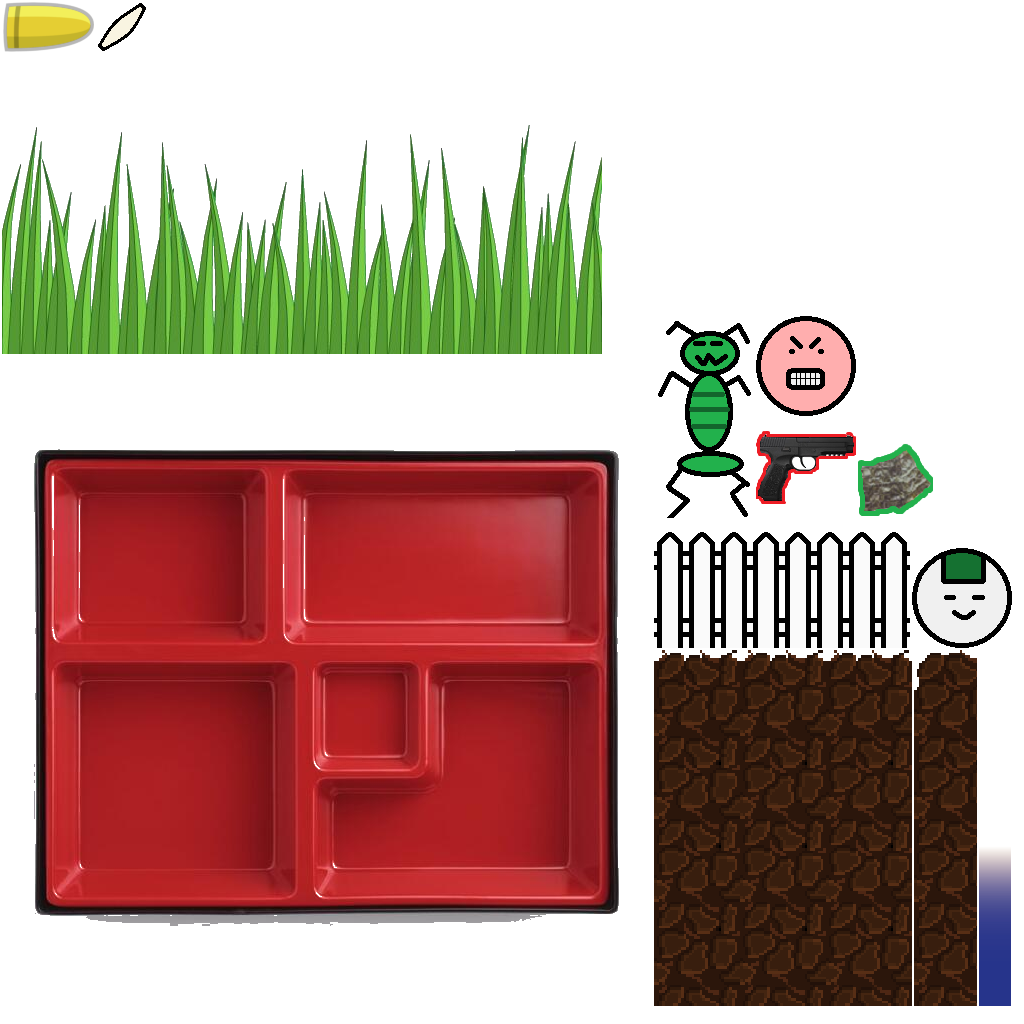
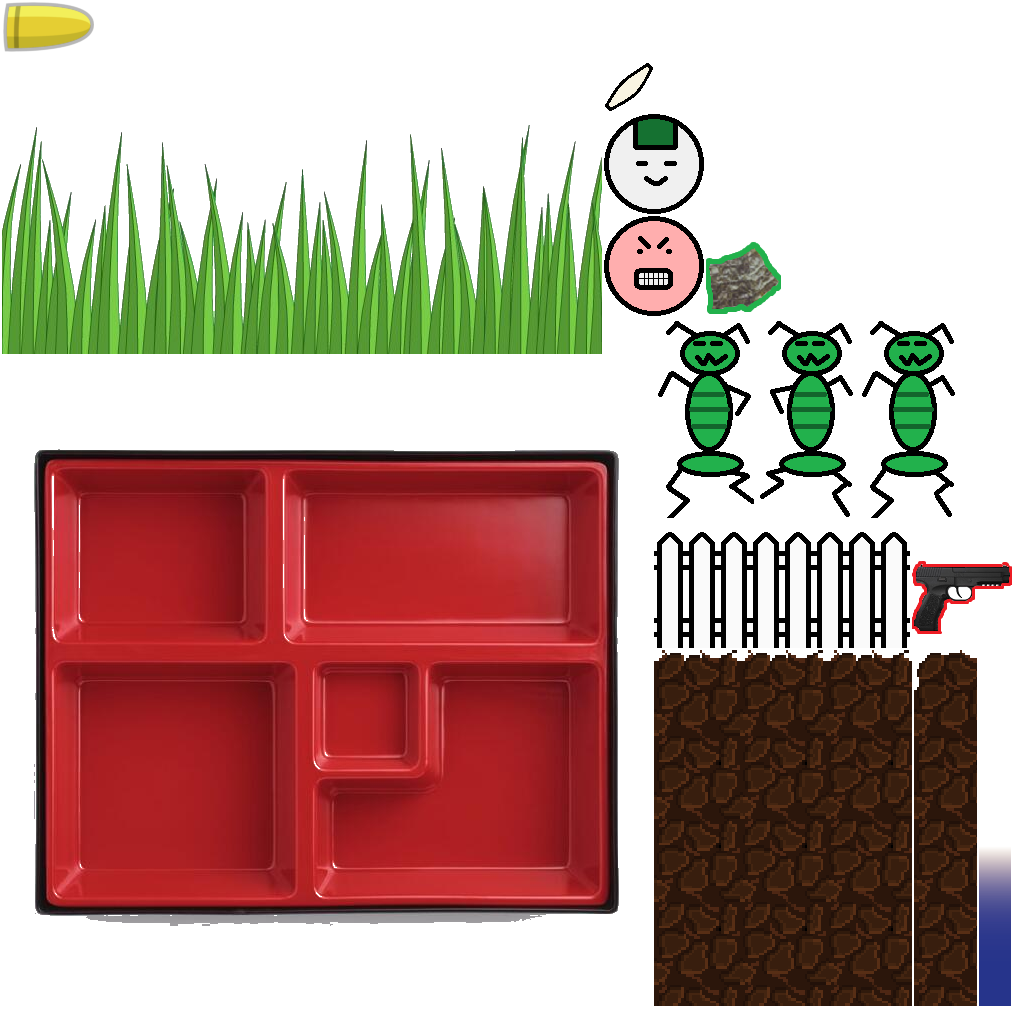
Added Simple bug animation

Changed region(s): [[0.5938, 0.0625, 0.9375, 0.5312], [0.875, 0.5312, 1.0, 0.6562], [0.0938, 0.0, 0.1562, 0.0625]]

diff --git a/core/src/com/packetpub/libgdx/rutter/game/objects/AbstractGameObject.java b/core/src/com/packetpub/libgdx/rutter/game/objects/AbstractGameObject.java
@@ -1,6 +1,8 @@
 package com.packetpub.libgdx.rutter.game.objects;
 
+import com.badlogic.gdx.graphics.g2d.Animation;
 import com.badlogic.gdx.graphics.g2d.SpriteBatch;
+import com.badlogic.gdx.graphics.g2d.TextureRegion;
 import com.badlogic.gdx.math.MathUtils;
 import com.badlogic.gdx.math.Vector2;
 import com.badlogic.gdx.physics.box2d.Body;
@@ -17,7 +19,7 @@ public abstract class AbstractGameObject
 	public Vector2 origin;
 	public Vector2 scale;
 	public float rotation;
-	
+		
 	private final float FLOAT_CYCLE_TIME = .5f;
 	private final float FLOAT_AMPLITUDE = 0.5f;
 	
@@ -26,6 +28,9 @@ public abstract class AbstractGameObject
 	private Vector2 floatTargetPosition;
 	
 	public Body body;
+	
+	public float stateTime;
+	public Animation<TextureRegion> animation;
 	
 	/**
 	 * Builds the game object
@@ -44,13 +49,27 @@ public abstract class AbstractGameObject
 	}
 	
 	/**
+	 * Sets the current animation from the animation object
+	 * @param animation animation object
+	 */
+	public void setAnimation(Animation animation)
+	{
+		this.animation = animation;
+		stateTime = 0;
+	}
+	
+	/**
 	 * Updates the object based on the time since last frame
 	 * @param deltaTime		Time since last frame
 	 */
 	public void update (float deltaTime)
 	{
-		position.set(body.getPosition());
-		rotation = body.getAngle() * MathUtils.radiansToDegrees;
+		stateTime += deltaTime;
+		if (body != null)
+		{
+			position.set(body.getPosition());
+			rotation = body.getAngle() * MathUtils.radiansToDegrees;
+		}
 	}
 	
 	/**

diff --git a/core/src/com/packetpub/libgdx/rutter/game/objects/Bug.java b/core/src/com/packetpub/libgdx/rutter/game/objects/Bug.java
@@ -1,5 +1,6 @@
 package com.packetpub.libgdx.rutter.game.objects;
 
+import com.badlogic.gdx.graphics.g2d.Animation;
 import com.badlogic.gdx.graphics.g2d.SpriteBatch;
 
 import com.badlogic.gdx.graphics.g2d.TextureRegion;
@@ -13,6 +14,7 @@ import com.packetpub.libgdx.rutter.game.Assets;
 public class Bug extends AbstractGameObject
 {
 	private TextureRegion regBug;
+	private Animation animBug;
 
 	public boolean killed;
 	public boolean grounded = false;
@@ -34,6 +36,9 @@ public class Bug extends AbstractGameObject
 		dimension.set(1f, 2.0f);
 
 		regBug = Assets.instance.bug.bug;
+		animBug = Assets.instance.bug.animBug;
+		System.out.println("bug frames:"+animBug.getKeyFrames().length);
+		setAnimation(animBug);
 
 		// Set bounding box for collision detection
 		//bounds.set(0, 0, dimension.x, dimension.y);
@@ -49,8 +54,8 @@ public class Bug extends AbstractGameObject
 		if (killed)
 			return;
 
-		TextureRegion reg = null;
-		reg = regBug;
+		TextureRegion reg = null;		
+		reg = animation.getKeyFrame(stateTime, true);
 		batch.draw(reg.getTexture(), position.x, position.y, origin.x, origin.y, dimension.x, dimension.y, scale.x,
 				scale.y, rotation, reg.getRegionX(), reg.getRegionY(), reg.getRegionWidth(), reg.getRegionHeight(),
 				false, false);
@@ -81,6 +86,7 @@ public class Bug extends AbstractGameObject
 	 */
 	public void update (float deltaTime)
 	{
+		super.update(deltaTime);
 		if (grounded)
 			{
 			frames++;

diff --git a/core/src/com/packetpub/libgdx/rutter/game/Assets.java b/core/src/com/packetpub/libgdx/rutter/game/Assets.java
@@ -6,9 +6,11 @@ import com.badlogic.gdx.assets.AssetErrorListener;
 import com.badlogic.gdx.assets.AssetManager;
 import com.badlogic.gdx.audio.Music;
 import com.badlogic.gdx.audio.Sound;
+import com.badlogic.gdx.graphics.g2d.Animation;
 import com.badlogic.gdx.graphics.g2d.BitmapFont;
 import com.badlogic.gdx.graphics.g2d.TextureAtlas;
 import com.badlogic.gdx.graphics.g2d.TextureAtlas.AtlasRegion;
+import com.badlogic.gdx.utils.Array;
 import com.badlogic.gdx.utils.Disposable;
 import com.packetpub.libgdx.rutter.util.Constants;
 
@@ -213,6 +215,7 @@ public class Assets implements Disposable, AssetErrorListener
 	public class AssetBug
 	{
 		public final AtlasRegion bug;
+		public final Animation animBug;
 
 		/**
 		 * Sets bug to hold the reference to the correct region from atlas.
@@ -223,6 +226,11 @@ public class Assets implements Disposable, AssetErrorListener
 		public AssetBug(TextureAtlas atlas)
 		{
 			bug = atlas.findRegion("bug");
+			Array<AtlasRegion> regions = null;
+			regions = atlas.findRegions("anim_bug");
+			System.out.println("bug regions: "+regions.size);
+			animBug = new Animation(1.0f/2.0f, regions,
+					Animation.PlayMode.LOOP_PINGPONG);
 		}
 	}
 

diff --git a/core/src/com/packetpub/libgdx/rutter/CSC361_F18_Rutter.java b/core/src/com/packetpub/libgdx/rutter/CSC361_F18_Rutter.java
@@ -28,7 +28,7 @@ public class CSC361_F18_Rutter extends Game
 		Assets.instance.init(new AssetManager());
 		// Load preferences for audio settings and start playing music
 		GamePreferences.instance.load();
-		AudioManager.instance.play(Assets.instance.music.song01);
+		//AudioManager.instance.play(Assets.instance.music.song01);
 		// Start game at menu screen
 		setScreen(new MenuScreen(this, false, 0));
 	}
